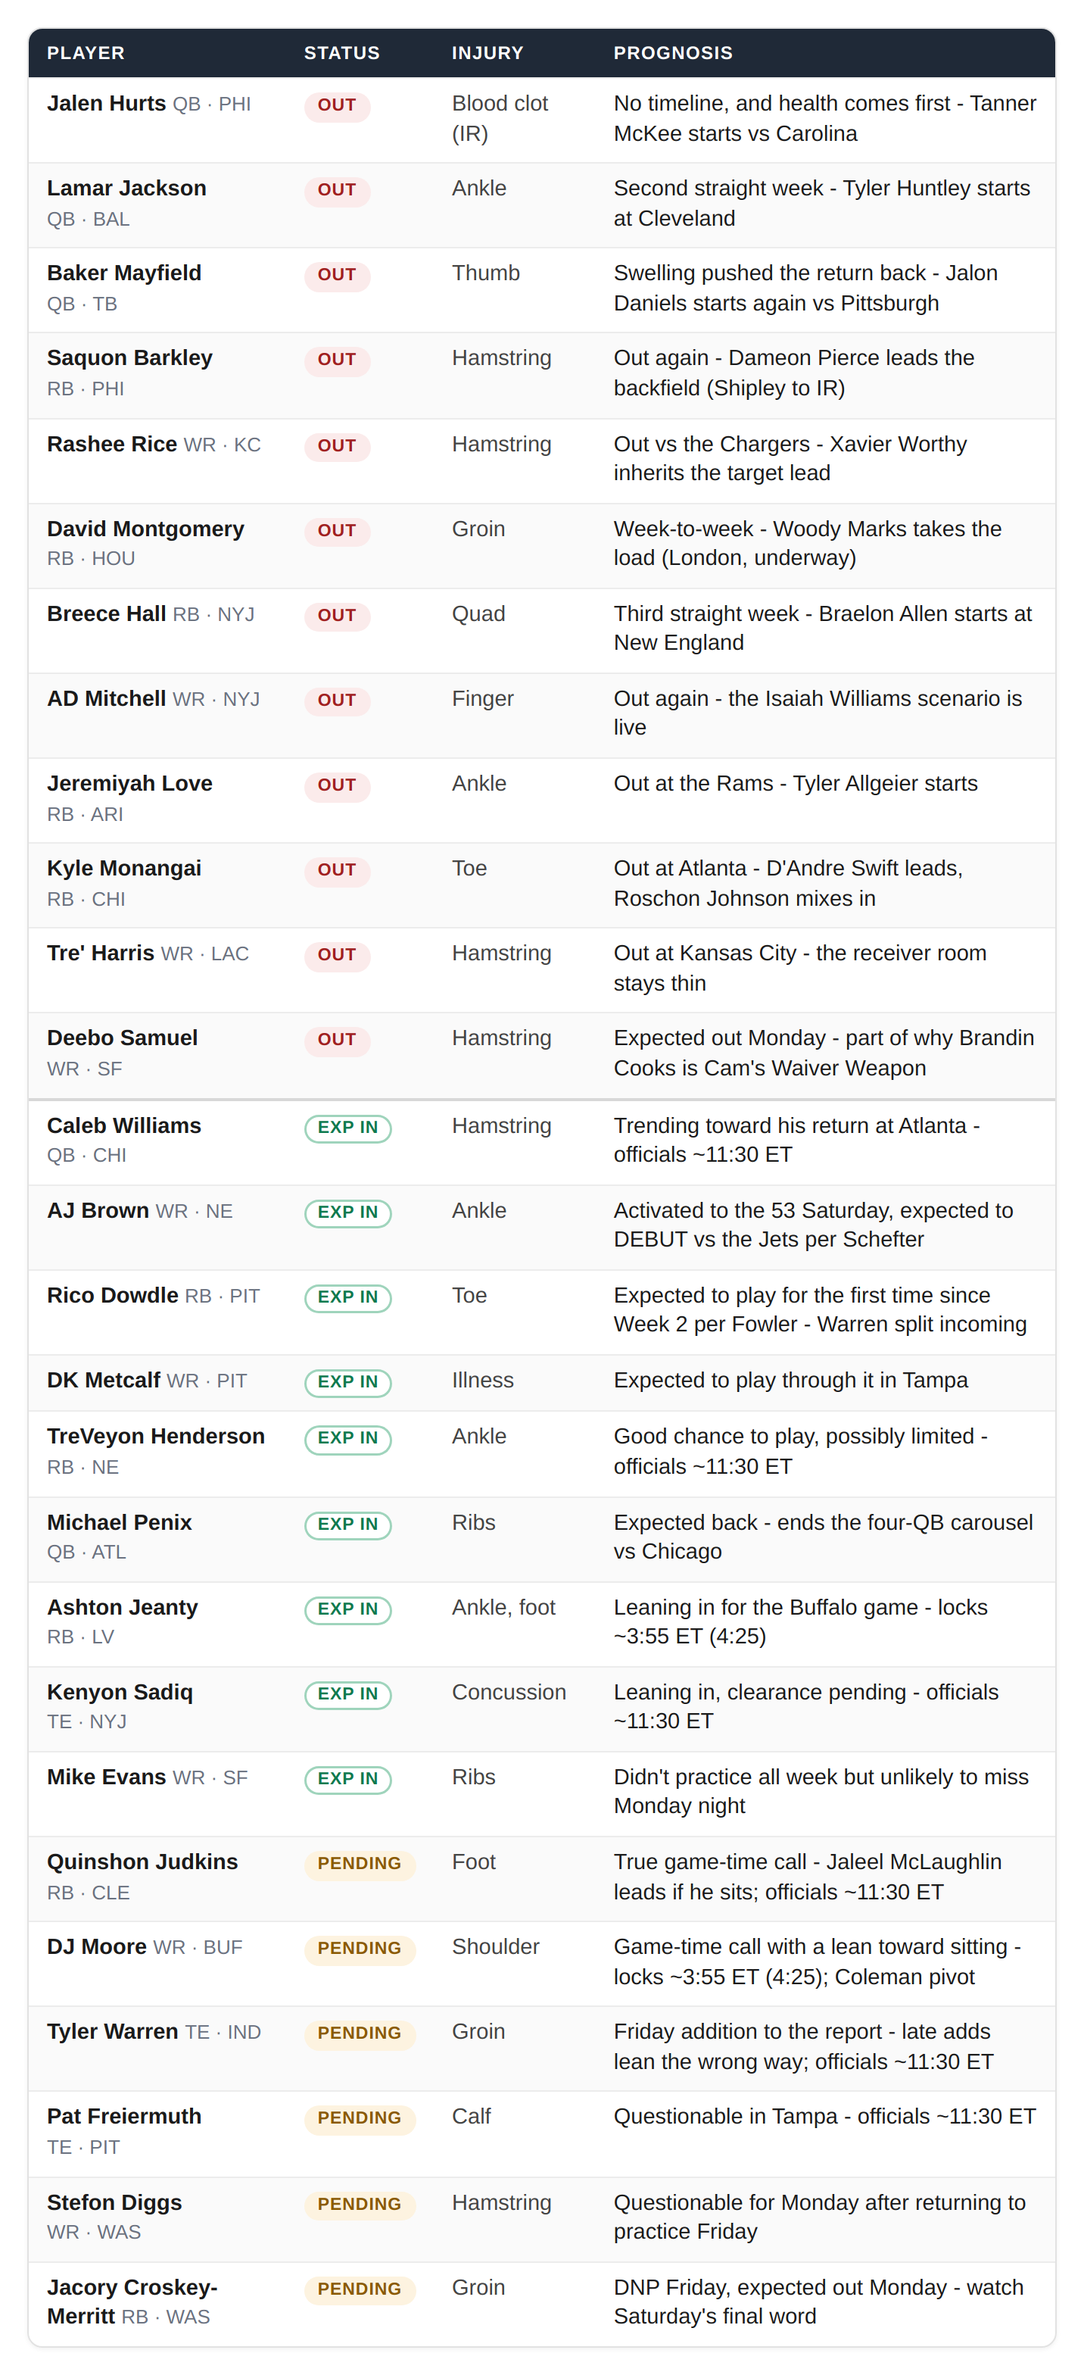
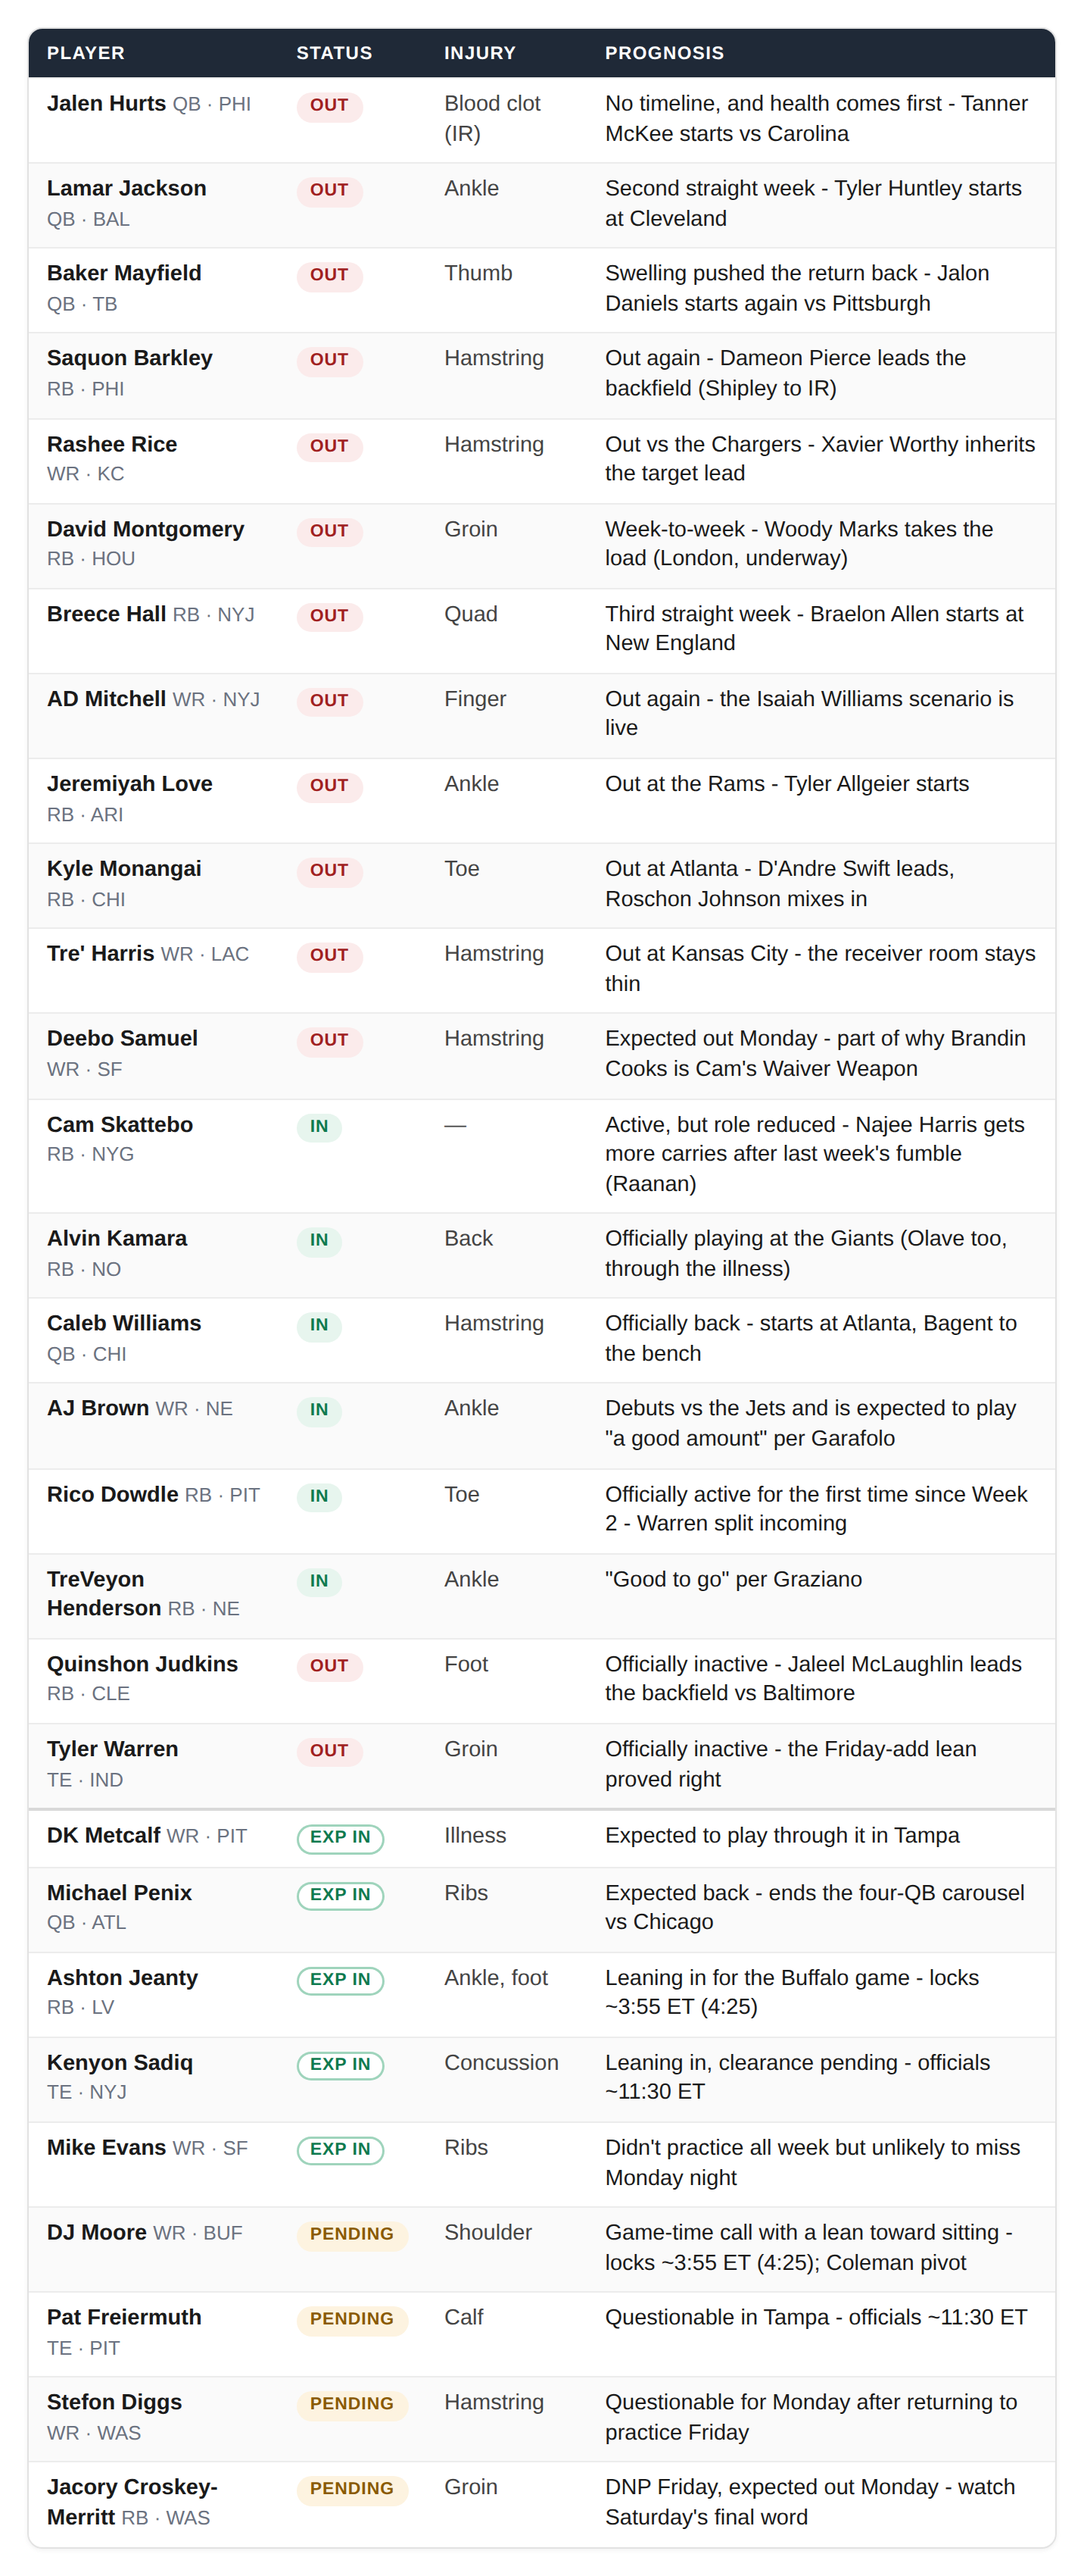
Week 6 FINAL wire — post-officials true-up, 11:50 ET
Claude-Session: https://claude.ai/code/session_01LD24FbXSMtPMcXZkoCgqbd

diff --git a/data/sunday/injury-wire.md b/data/sunday/injury-wire.md
@@ -11,7 +11,7 @@
 #   - Locked rows first, not-locked rows last (renderer draws the divider).
 #   - Pipes (|) can't appear inside cell text.
 #
-# WEEK 6 — 2026-10-18 — EXPECTED wire, 10:35 ET (pre-officials)
+# WEEK 6 — 2026-10-18 — FINAL wire, 11:50 ET (post-officials true-up)
 
 | Player | Pos/Team | Status | Injury | Prognosis |
 |---|---|---|---|---|
@@ -27,18 +27,20 @@
 | Kyle Monangai | RB · CHI | OUT | Toe | Out at Atlanta - D'Andre Swift leads, Roschon Johnson mixes in |
 | Tre' Harris | WR · LAC | OUT | Hamstring | Out at Kansas City - the receiver room stays thin |
 | Deebo Samuel | WR · SF | OUT | Hamstring | Expected out Monday - part of why Brandin Cooks is Cam's Waiver Weapon |
-| Caleb Williams | QB · CHI | EXP IN | Hamstring | Trending toward his return at Atlanta - officials ~11:30 ET |
-| AJ Brown | WR · NE | EXP IN | Ankle | Activated to the 53 Saturday, expected to DEBUT vs the Jets per Schefter |
-| Rico Dowdle | RB · PIT | EXP IN | Toe | Expected to play for the first time since Week 2 per Fowler - Warren split incoming |
+| Cam Skattebo | RB · NYG | IN | — | Active, but role reduced - Najee Harris gets more carries after last week's fumble (Raanan) |
+| Alvin Kamara | RB · NO | IN | Back | Officially playing at the Giants (Olave too, through the illness) |
+| Caleb Williams | QB · CHI | IN | Hamstring | Officially back - starts at Atlanta, Bagent to the bench |
+| AJ Brown | WR · NE | IN | Ankle | Debuts vs the Jets and is expected to play "a good amount" per Garafolo |
+| Rico Dowdle | RB · PIT | IN | Toe | Officially active for the first time since Week 2 - Warren split incoming |
+| TreVeyon Henderson | RB · NE | IN | Ankle | "Good to go" per Graziano |
+| Quinshon Judkins | RB · CLE | OUT | Foot | Officially inactive - Jaleel McLaughlin leads the backfield vs Baltimore |
+| Tyler Warren | TE · IND | OUT | Groin | Officially inactive - the Friday-add lean proved right |
 | DK Metcalf | WR · PIT | EXP IN | Illness | Expected to play through it in Tampa |
-| TreVeyon Henderson | RB · NE | EXP IN | Ankle | Good chance to play, possibly limited - officials ~11:30 ET |
 | Michael Penix | QB · ATL | EXP IN | Ribs | Expected back - ends the four-QB carousel vs Chicago |
 | Ashton Jeanty | RB · LV | EXP IN | Ankle, foot | Leaning in for the Buffalo game - locks ~3:55 ET (4:25) |
 | Kenyon Sadiq | TE · NYJ | EXP IN | Concussion | Leaning in, clearance pending - officials ~11:30 ET |
 | Mike Evans | WR · SF | EXP IN | Ribs | Didn't practice all week but unlikely to miss Monday night |
-| Quinshon Judkins | RB · CLE | PENDING | Foot | True game-time call - Jaleel McLaughlin leads if he sits; officials ~11:30 ET |
 | DJ Moore | WR · BUF | PENDING | Shoulder | Game-time call with a lean toward sitting - locks ~3:55 ET (4:25); Coleman pivot |
-| Tyler Warren | TE · IND | PENDING | Groin | Friday addition to the report - late adds lean the wrong way; officials ~11:30 ET |
 | Pat Freiermuth | TE · PIT | PENDING | Calf | Questionable in Tampa - officials ~11:30 ET |
 | Stefon Diggs | WR · WAS | PENDING | Hamstring | Questionable for Monday after returning to practice Friday |
 | Jacory Croskey-Merritt | RB · WAS | PENDING | Groin | DNP Friday, expected out Monday - watch Saturday's final word |
